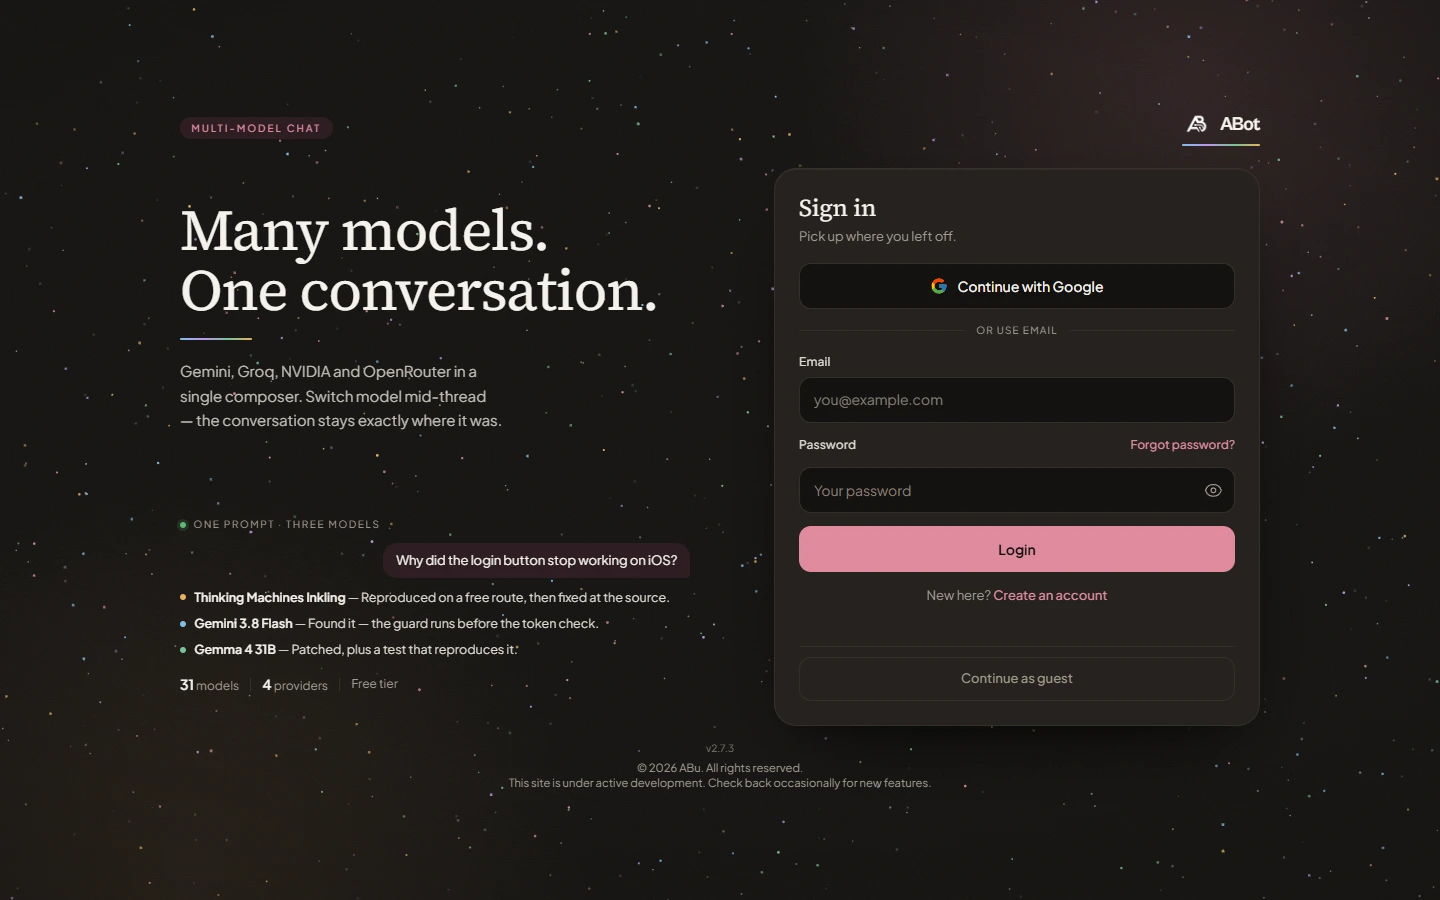
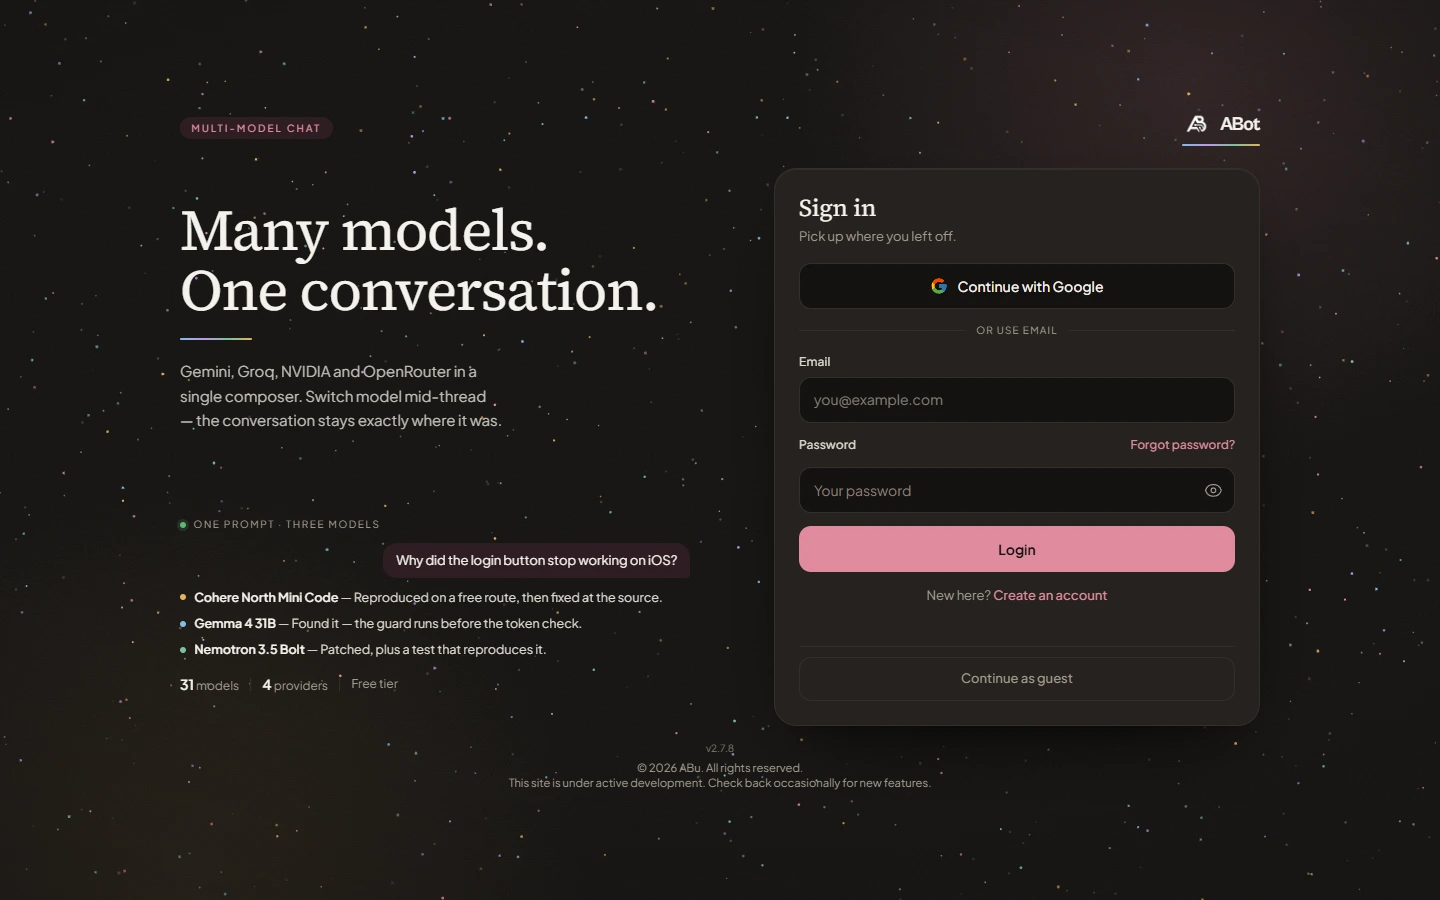
2.7.9 - recapture README screenshots from the live site

Changed region(s): [[0.125, 0.6533, 0.4688, 0.7467]]

diff --git a/js/config.js b/js/config.js
@@ -10,7 +10,7 @@
 // the version in the commit subject. tools/sync-version.js rewrites this line
 // from the commit message via the .githooks/commit-msg hook, so it cannot drift
 // when a session forgets to bump it by hand.
-export const APP_VERSION = '2.7.8';
+export const APP_VERSION = '2.7.9';
 
 // --- Provider identity colors (owner spec: OpenRouter=amber, Groq=violet,
 // Gemini=blue, NVIDIA=green; OpenRouter-hosted models inherit amber).

diff --git a/docs/PROJECT-INFO.md b/docs/PROJECT-INFO.md
@@ -3,7 +3,7 @@
 > **Purpose:** every fact an AI (or a person) needs to write a resume "Projects"
 > entry, a portfolio summary, a LinkedIn post, or interview talking points for
 > ABot — without reading the code.
-> **Current as of:** **v2.7.8** · 2026-10-26 · branch `main`.
+> **Current as of:** **v2.7.9** · 2026-10-26 · branch `main`.
 
 ---
 
@@ -54,7 +54,7 @@
 | Live site | https://abot-ai.vercel.app/ |
 | Source | private GitHub repo `abustark/abot` (access on request) |
 | License | private, all rights reserved (`"license": "UNLICENSED"`) |
-| Version | **2.7.8** (2026-10-26) |
+| Version | **2.7.9** (2026-10-26) |
 | Status | Actively maintained. 2.7.x is the brand + presentation pass: oxblood palette, auth-page lockup, rotating preview prompts, README screenshots, package metadata |
 | Stack | Vanilla ES modules · Tailwind 3.4 (compiled) · Vercel serverless + Express mirror · Firebase Auth/Firestore · 4 free-tier AI providers |
 
@@ -92,7 +92,7 @@
 | Highlight | highlight.js (vendored) | `vendor/highlight.min.js` 160 KB (+ npm `^11.12.0`) | Lazy on first code block |
 | Fonts | Self-hosted woff2 | 7 files in `dist/fonts/` (3 precached) | Plus Jakarta Sans / Cabinet Grotesk / JetBrains Mono / Source Serif 4 |
 | PWA | Hand-written service worker + manifest | `abot-cache-v83`, 24 precached assets | Installable, offline shell |
-| Screenshots | WebP captures | `docs/screenshots/` (light desktop 70 KB, dark desktop 81 KB, mobile 110 KB) | README |
+| Screenshots | WebP captures | `docs/screenshots/` (light desktop 69 KB, dark desktop 81 KB, mobile 112 KB) | README |
 | Versioning | `tools/sync-version.js` + `.githooks/` | one version per request batch, `.10` rollover | Writes `APP_VERSION` + `package.json` version, verifies the commit subject |
 | Testing | jsdom | ^30.0.1 | interaction / cycle / smoke suites |
 | Syntax | acorn + acorn-walk | ^8.18.0 / ^8.3.5 | `npm run check` |
@@ -101,7 +101,7 @@
 | Types | TypeScript (check-only) | ^5.9.3 | `tsc -p jsconfig.json` (`allowJs`) |
 | Lint | ESLint | ^9.39.5 + `@eslint/js` + `globals` | `npm run lint`, pre-commit hook |
 | Hosting (prod) | Vercel Serverless | `api/chat.js`, `maxDuration 60` | Production deployment |
-| VCS | Git / GitHub | `main` + `arena/01a03fe9-abot` (fast-forward mirror) | v2.7.8, 2026-10-26 head |
+| VCS | Git / GitHub | `main` + `arena/01a03fe9-abot` (fast-forward mirror) | v2.7.9, 2026-10-26 head |
 
 ---
 
@@ -144,7 +144,7 @@
 - **Parity proof:** `tools/verify-parity.js` — token parity 56/57 after de-monolithisation (1 documented deviation = an `innerHTML` → DOM XSS fix); `index.html` went from 2,555 lines to ~840, extracted into ES modules.
 - **Pre-commit hook** (`.githooks/`, wired by `prepare`): `tools/sync-version.js --from-history` writes `APP_VERSION` in `js/config.js` **and** `version` in `package.json`, advances the `📌 Next version` line, then syntax + lint run; `.githooks/commit-msg` aborts when the subject's version disagrees.
 - **Bug registry:** `docs/BUGS-AND-FIXES.md` (49 unique B-ids and counting), `docs/COMMIT-HISTORY.md` (full versioned log), `AGENTS.md` (operating brief).
-- **Screenshots:** three real captures committed in `docs/screenshots/` — light desktop, dark desktop, mobile — taken from the live site at 1440×900 and 390×844 @2x, WebP q92 (266 KB total).
+- **Screenshots:** three real captures committed in `docs/screenshots/` — light desktop, dark desktop, mobile — taken from the live site (v2.7.8) at 1440×900 and a 390×844 mobile viewport @2x, WebP q92 (262 KB total). No forced theme: light/dark are the natural `prefers-color-scheme` result.
 
 ---
 
@@ -204,3 +204,4 @@ AI chat, multi-model routing, LLM integration, prompt engineering, Google Gemini
 > Live demo: https://abot-ai.vercel.app/ — free-tier keys, so it may be busy; guest mode gives you 5 messages without signing up. Repo is private; happy to walk through the code.
 
 **Tone/length guide for the AI:** follow §0. Frame impact as user capability plus the hardest engineering problem solved — no business KPIs. Lead with verbs and the numbers from §6, use keywords from §8, and never cite a model count other than **31** or claim committed screenshots that are not in `docs/screenshots/`.
+

diff --git a/docs/COMMIT-HISTORY.md b/docs/COMMIT-HISTORY.md
@@ -6,7 +6,7 @@ This document tracks every commit made on `main` following the versioning schema
 - Format: `<version> - <short sentence>`
 
 > ### 📌 Next version — **keep this line current, every commit**
-> - **`main` → `2.7.9`** (current head is `2.7.8`)
+> - **`main` → `2.7.10`** (current head is `2.7.9`)
 > - **`arena/01a03fe9-abot` → mirrors `main`** via **plain fast-forward only**
 >   (`git push origin main:arena/01a03fe9-abot`). Rejected = arena is ahead → merge arena
 >   into main first. No force-push unless the owner explicitly asks in chat
@@ -33,6 +33,14 @@ This document tracks every commit made on `main` following the versioning schema
 ---
 
 ## Commit History
+
+### 2.7.9 - README screenshots recaptured from the fixed live site
+- **Date**: 2026-10-26
+- **Why**: the committed captures predated the 2.7.5 CSP fix, and the dark shot had to force the `dark` class because the theme-boot script was blocked. Recaptured now that the fix is live.
+- **Changes**: all three `docs/screenshots/*.webp` replaced from `https://abot-ai.vercel.app/` (v2.7.8) — light desktop 1440×900, dark desktop 1440×900, mobile 390×844 viewport @2x. No stored theme and no class forcing: each image is the natural first-visit result of `prefers-color-scheme` (light → `rgb(247,246,243)` / `#f7f6f3` meta; dark → `rgb(20,18,16)` / `#141210` meta).
+- **Size**: 69 + 81 + 112 KB = 262 KB total (was 266 KB).
+- **Docs**: `docs/PROJECT-INFO.md` screenshot row + §5 refreshed.
+- **No cache bump** — images are README assets, not app assets.
 
 ### 2.7.8 - remove the stale agent/ skill copy
 - **Date**: 2026-10-26
